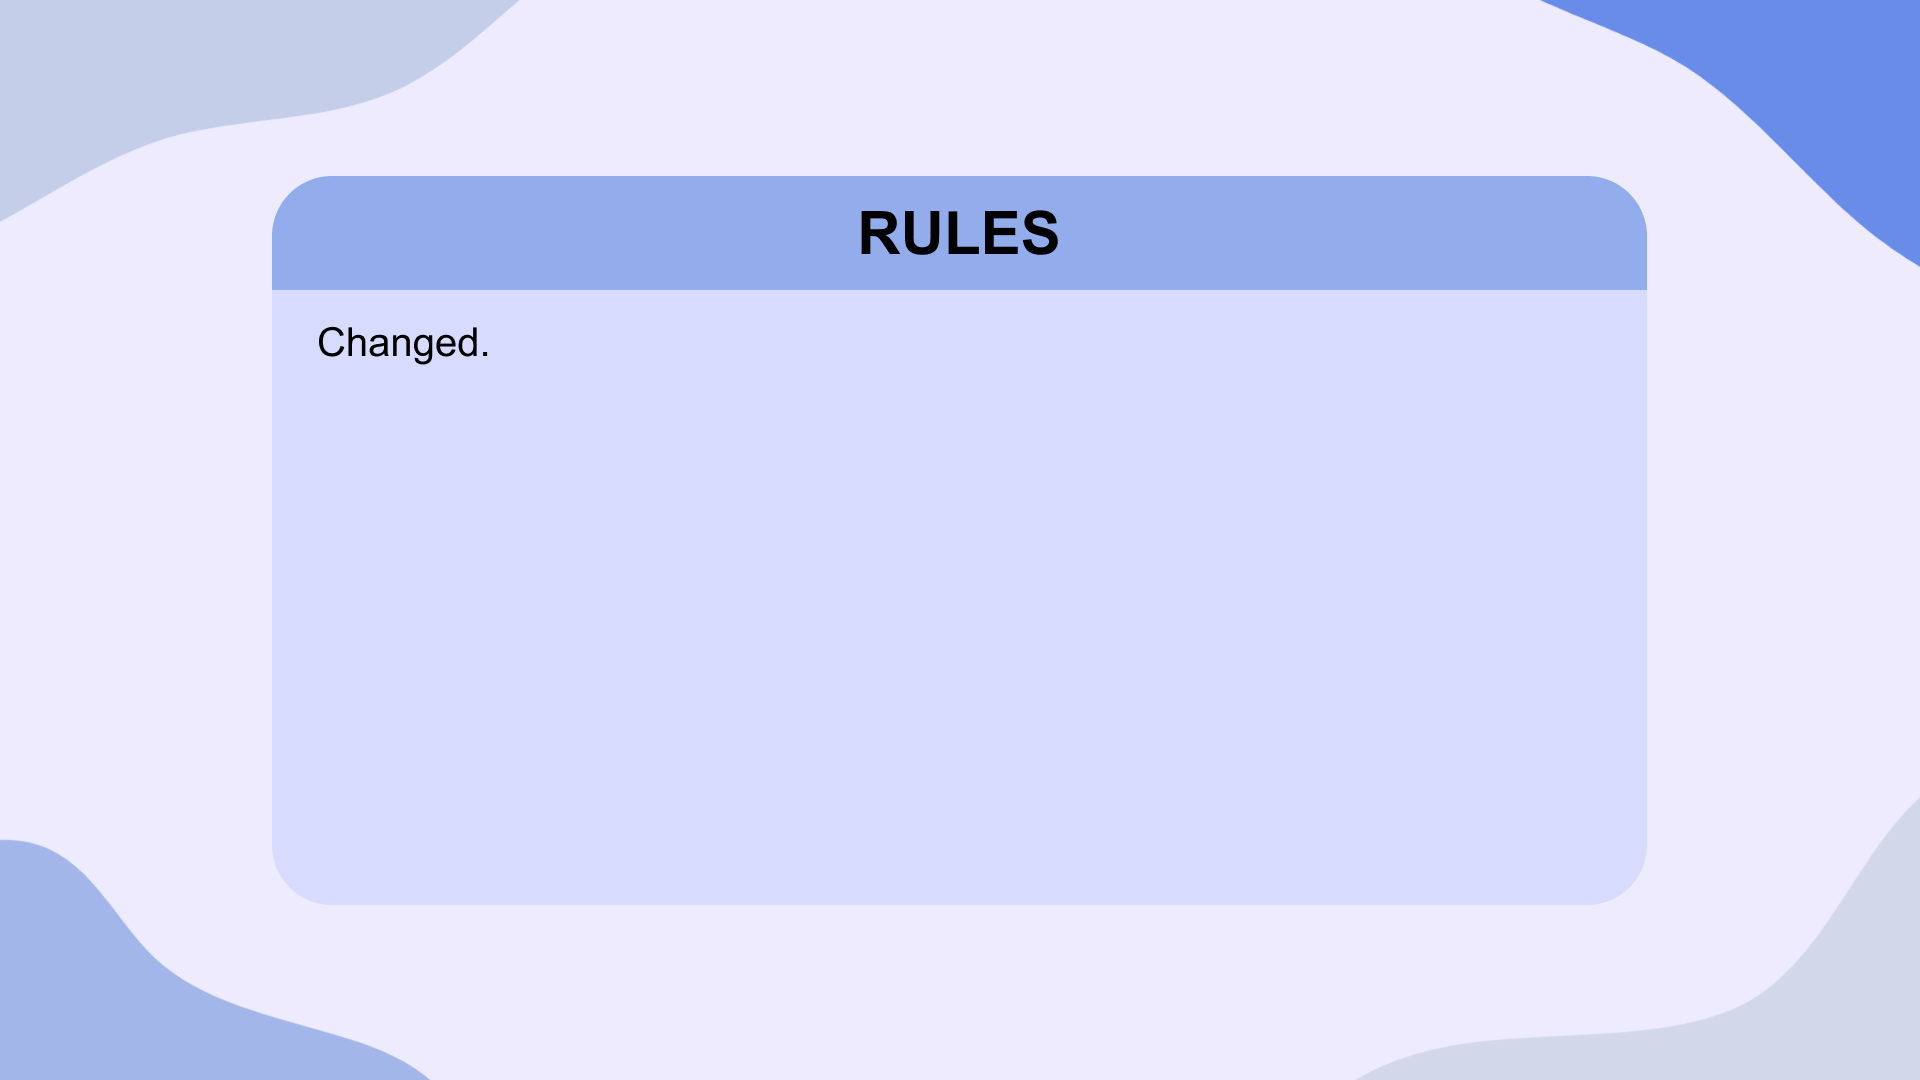
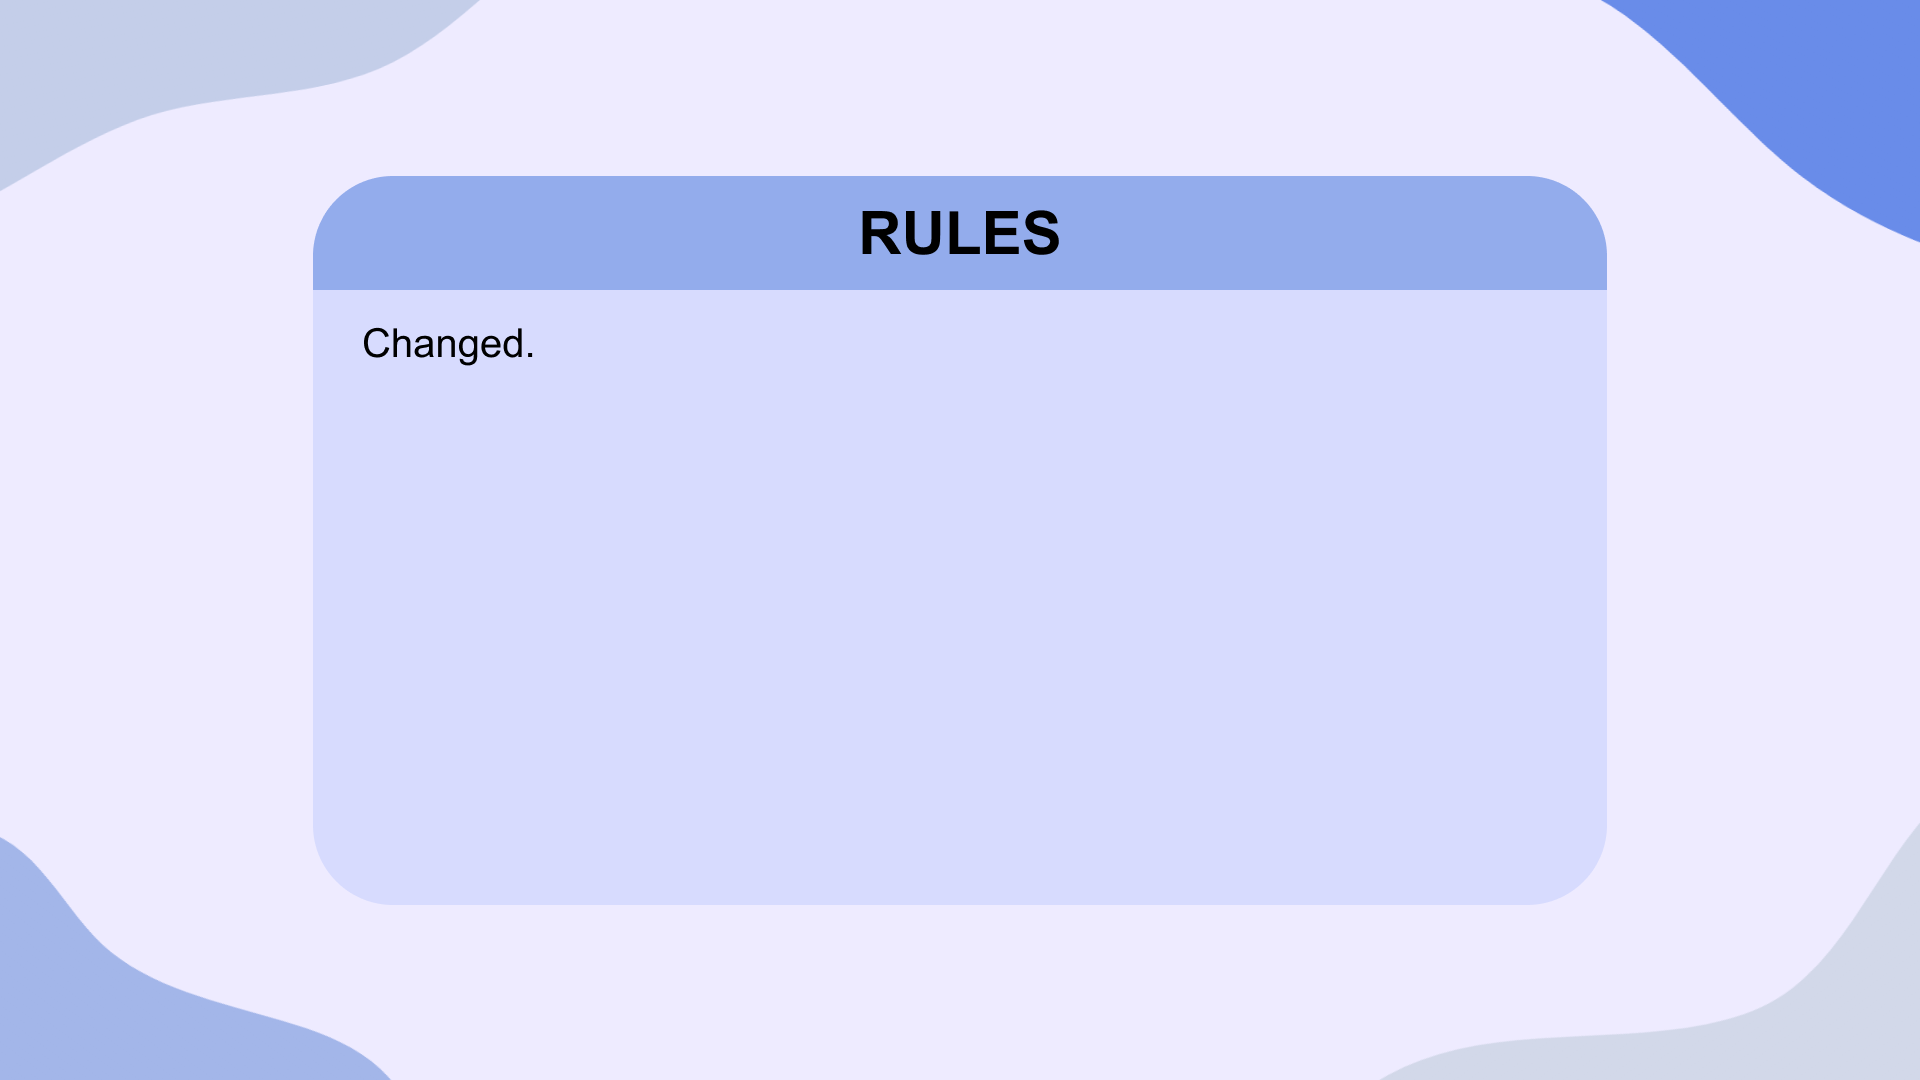
feat(backend/frontend): implement theme switching for rules

diff --git a/app/src/Rules.cpp b/app/src/Rules.cpp
@@ -2,8 +2,16 @@
 
 
 Rules::Rules() {
-    gameManager->LoadScene(gameManager->SCENE::RULES, { "Rules/Rules.png" }, { { 0, 0 } });
-    gameManager->LoadButtons(this->m_Buttons, this->m_ButtonsHover, this->m_ButtonPositions, this->m_ButtonNames);
+
+    if (gameManager->currentTheme == gameManager->THEME::THEME_LIGHT) {
+        gameManager->LoadScene(gameManager->SCENE::RULES, { "Rules/Rules.png" }, { {0, 0} });
+        gameManager->LoadButtons(this->m_ButtonsLight, this->m_ButtonsHoverLight, this->m_ButtonPositions, this->m_ButtonNames);
+    }
+    if (gameManager->currentTheme == gameManager->THEME::THEME_DARK) {
+        gameManager->LoadScene(gameManager->SCENE::RULES, { "Rules/RulesDark.png" }, { { 0, 0 } });
+        gameManager->LoadButtons(this->m_ButtonsDark, this->m_ButtonsHoverDark, this->m_ButtonPositions, this->m_ButtonNames);
+    }
+
     while (gameManager->CurrentScene == gameManager->SCENE::RULES && !gameManager->GetShouldClose()) {
         BeginDrawing();
         ClearBackground(BLUE);
@@ -33,8 +41,15 @@ Rules::Rules() {
 Rules::~Rules() {}
 
 SecondPage::SecondPage() {
-    gameManager->LoadScene(gameManager->SCENE::SECONDRULES, { "Rules/RulesSecond.png" }, { { 0, 0 } });
-    gameManager->LoadButtons(this->m_Buttons, this->m_ButtonsHover, this->m_ButtonPositions, this->m_ButtonNames);
+    if (gameManager->currentTheme == gameManager->THEME::THEME_LIGHT) {
+        gameManager->LoadScene(gameManager->SCENE::SECONDRULES, { "Rules/RulesSecond.png" }, { {0, 0} });
+        gameManager->LoadButtons(this->m_ButtonsLight, this->m_ButtonsHoverLight, this->m_ButtonPositions, this->m_ButtonNames);
+    }
+    if (gameManager->currentTheme == gameManager->THEME::THEME_DARK) {
+        gameManager->LoadScene(gameManager->SCENE::SECONDRULES, { "Rules/RulesDarkSecond.png" }, { { 0, 0 } });
+        gameManager->LoadButtons(this->m_ButtonsDark, this->m_ButtonsHoverDark, this->m_ButtonPositions, this->m_ButtonNames);
+    }
+
     while (gameManager->CurrentScene == gameManager->SCENE::SECONDRULES && !gameManager->GetShouldClose()) {
         BeginDrawing();
         ClearBackground(BLUE);

diff --git a/app/include/Rules.hpp b/app/include/Rules.hpp
@@ -9,9 +9,11 @@ public:
 private:
 	GameManager* gameManager = GameManager::GetInstance();
 	
-	std::vector<std::string> m_Buttons = { "Rules/Next.png", "Rules/Back.png" };
-	std::vector<std::string> m_ButtonsHover = { "Rules/NextHover.png", "Rules/BackHover.png" };
-	std::vector<Vector2> m_ButtonPositions = { {1360, 812}, {273, 812} };
+	std::vector<std::string> m_ButtonsLight = { "Rules/Next.png", "Rules/Back.png" };
+	std::vector<std::string> m_ButtonsHoverLight = { "Rules/NextHover.png", "Rules/BackHover.png" };
+	std::vector<std::string> m_ButtonsDark = { "Rules/NextDark.png", "Rules/BackDark.png" };
+	std::vector<std::string> m_ButtonsHoverDark = { "Rules/NextDarkHover.png", "Rules/BackDarkHover.png" };
+	std::vector<Vector2> m_ButtonPositions = { {1320, 812}, {313, 812} };
 	std::vector<std::string> m_ButtonNames = { "NEXT", "BACK" };
 };
 
@@ -21,8 +23,10 @@ public:
 	~SecondPage();
 private:
 	GameManager* gameManager = GameManager::GetInstance();
-	std::vector<std::string> m_Buttons = { "Rules/Back.png" };
-	std::vector<std::string> m_ButtonsHover = { "Rules/BackHover.png" };
-	std::vector<Vector2> m_ButtonPositions = { {273, 812} };
+	std::vector<std::string> m_ButtonsLight = { "Rules/Back.png" };
+	std::vector<std::string> m_ButtonsHoverLight = { "Rules/BackHover.png" };
+	std::vector<std::string> m_ButtonsDark = { "Rules/BackDark.png" };
+	std::vector<std::string> m_ButtonsHoverDark = { "Rules/BackDarkHover.png" };
+	std::vector<Vector2> m_ButtonPositions = { {313, 812} };
 	std::vector<std::string> m_ButtonNames = { "BACK" };
 };

diff --git a/app/include/Menu.hpp b/app/include/Menu.hpp
@@ -27,6 +27,6 @@ private:
     std::vector<std::string> m_ButtonsHoverLight = { "Menu/StartHover.png", "Menu/SettingsHover.png", "Menu/RulesHover.png", "Menu/ExitHover.png" };
     std::vector<Vector2> m_ButtonPositions = { {gameManager->GetScreenSize().x / 2 - this->c_ButtonWidth / 2, gameManager->GetScreenSize().y / 2 - this->c_ButtonHeight / 2 - 65}, {gameManager->GetScreenSize().x / 2 - this->c_ButtonWidth / 2, gameManager->GetScreenSize().y / 2 - this->c_ButtonHeight / 2 + 55}, {gameManager->GetScreenSize().x / 2 - this->c_ButtonWidth / 2, gameManager->GetScreenSize().y / 2 - this->c_ButtonHeight / 2 + 174}, {gameManager->GetScreenSize().x / 2 - this->c_ButtonWidth / 2, gameManager->GetScreenSize().y / 2 - this->c_ButtonHeight / 2 + 295} };
     std::vector<std::string> m_ButtonsDark = { "Menu/StartDark.png", "Menu/SettingsDark.png", "Menu/RulesDark.png", "Menu/ExitDark.png"};
-    std::vector<std::string> m_ButtonsHoverDark = { "Menu/StartDarkHover.png", "Menu/SettingsDarkHover.png", "Menu/RulesDarkHover", "Menu/ExitDarkHover.png" };
+    std::vector<std::string> m_ButtonsHoverDark = { "Menu/StartDarkHover.png", "Menu/SettingsDarkHover.png", "Menu/RulesDarkHover.png", "Menu/ExitDarkHover.png" };
 	std::vector<std::string> m_ButtonNames = { "Start", "Settings", "Rules", "Exit" };
 };
